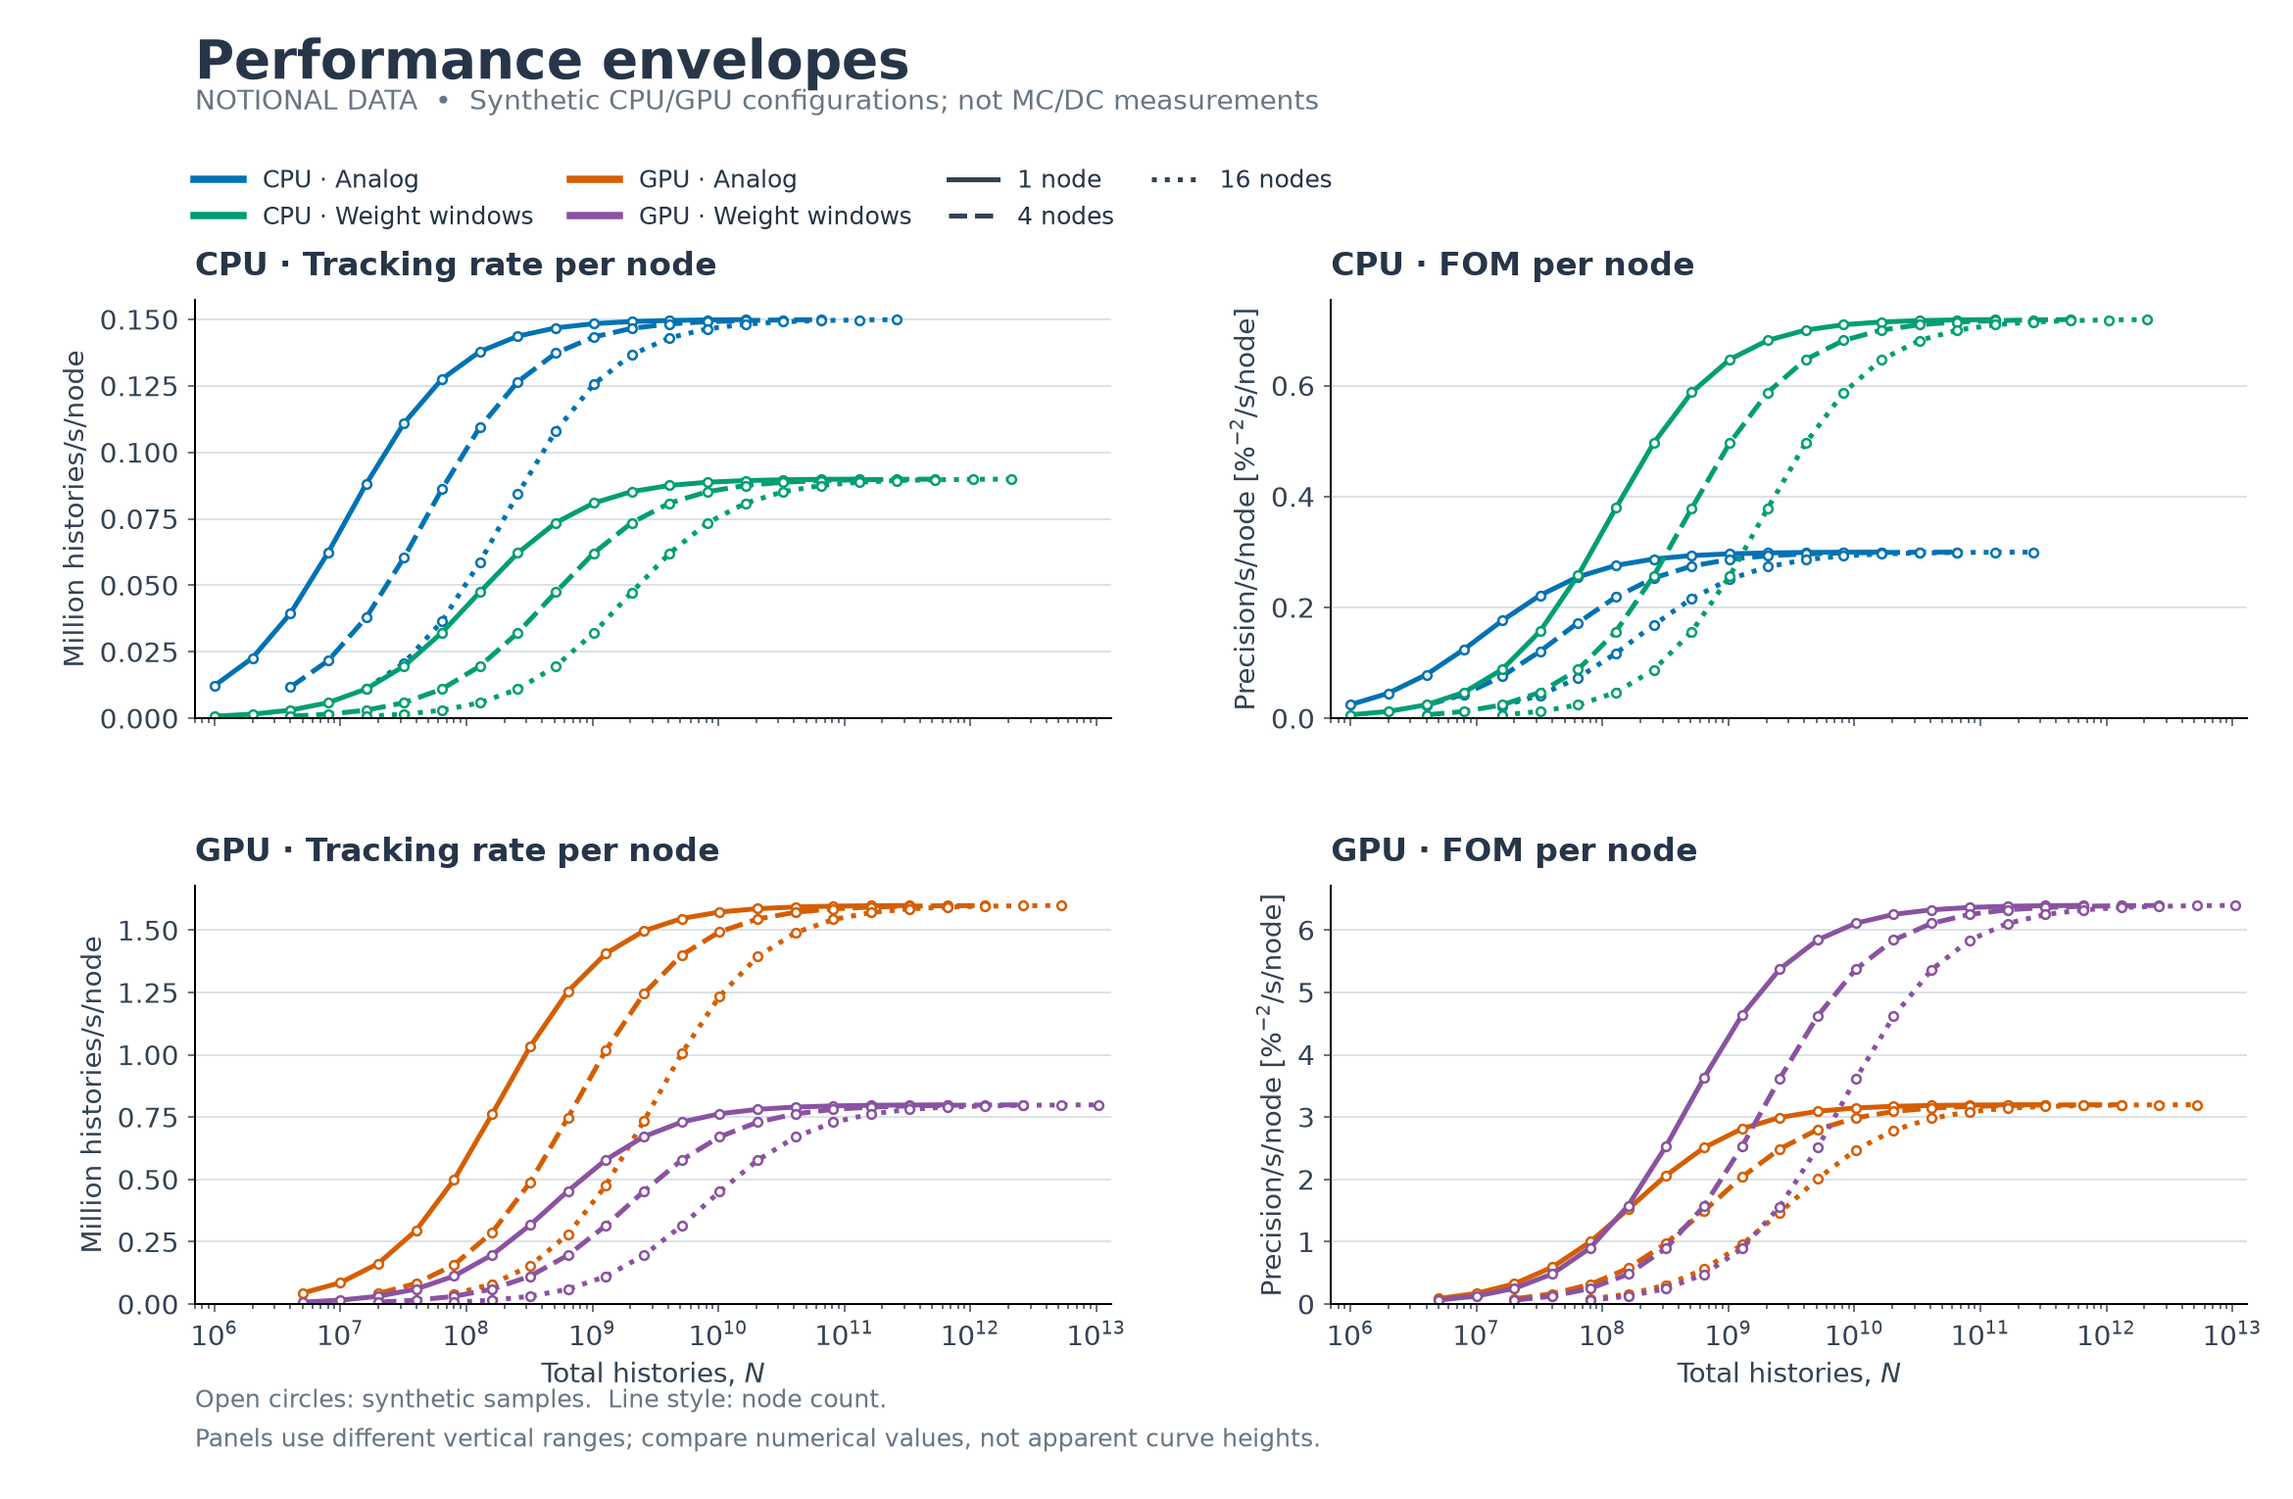
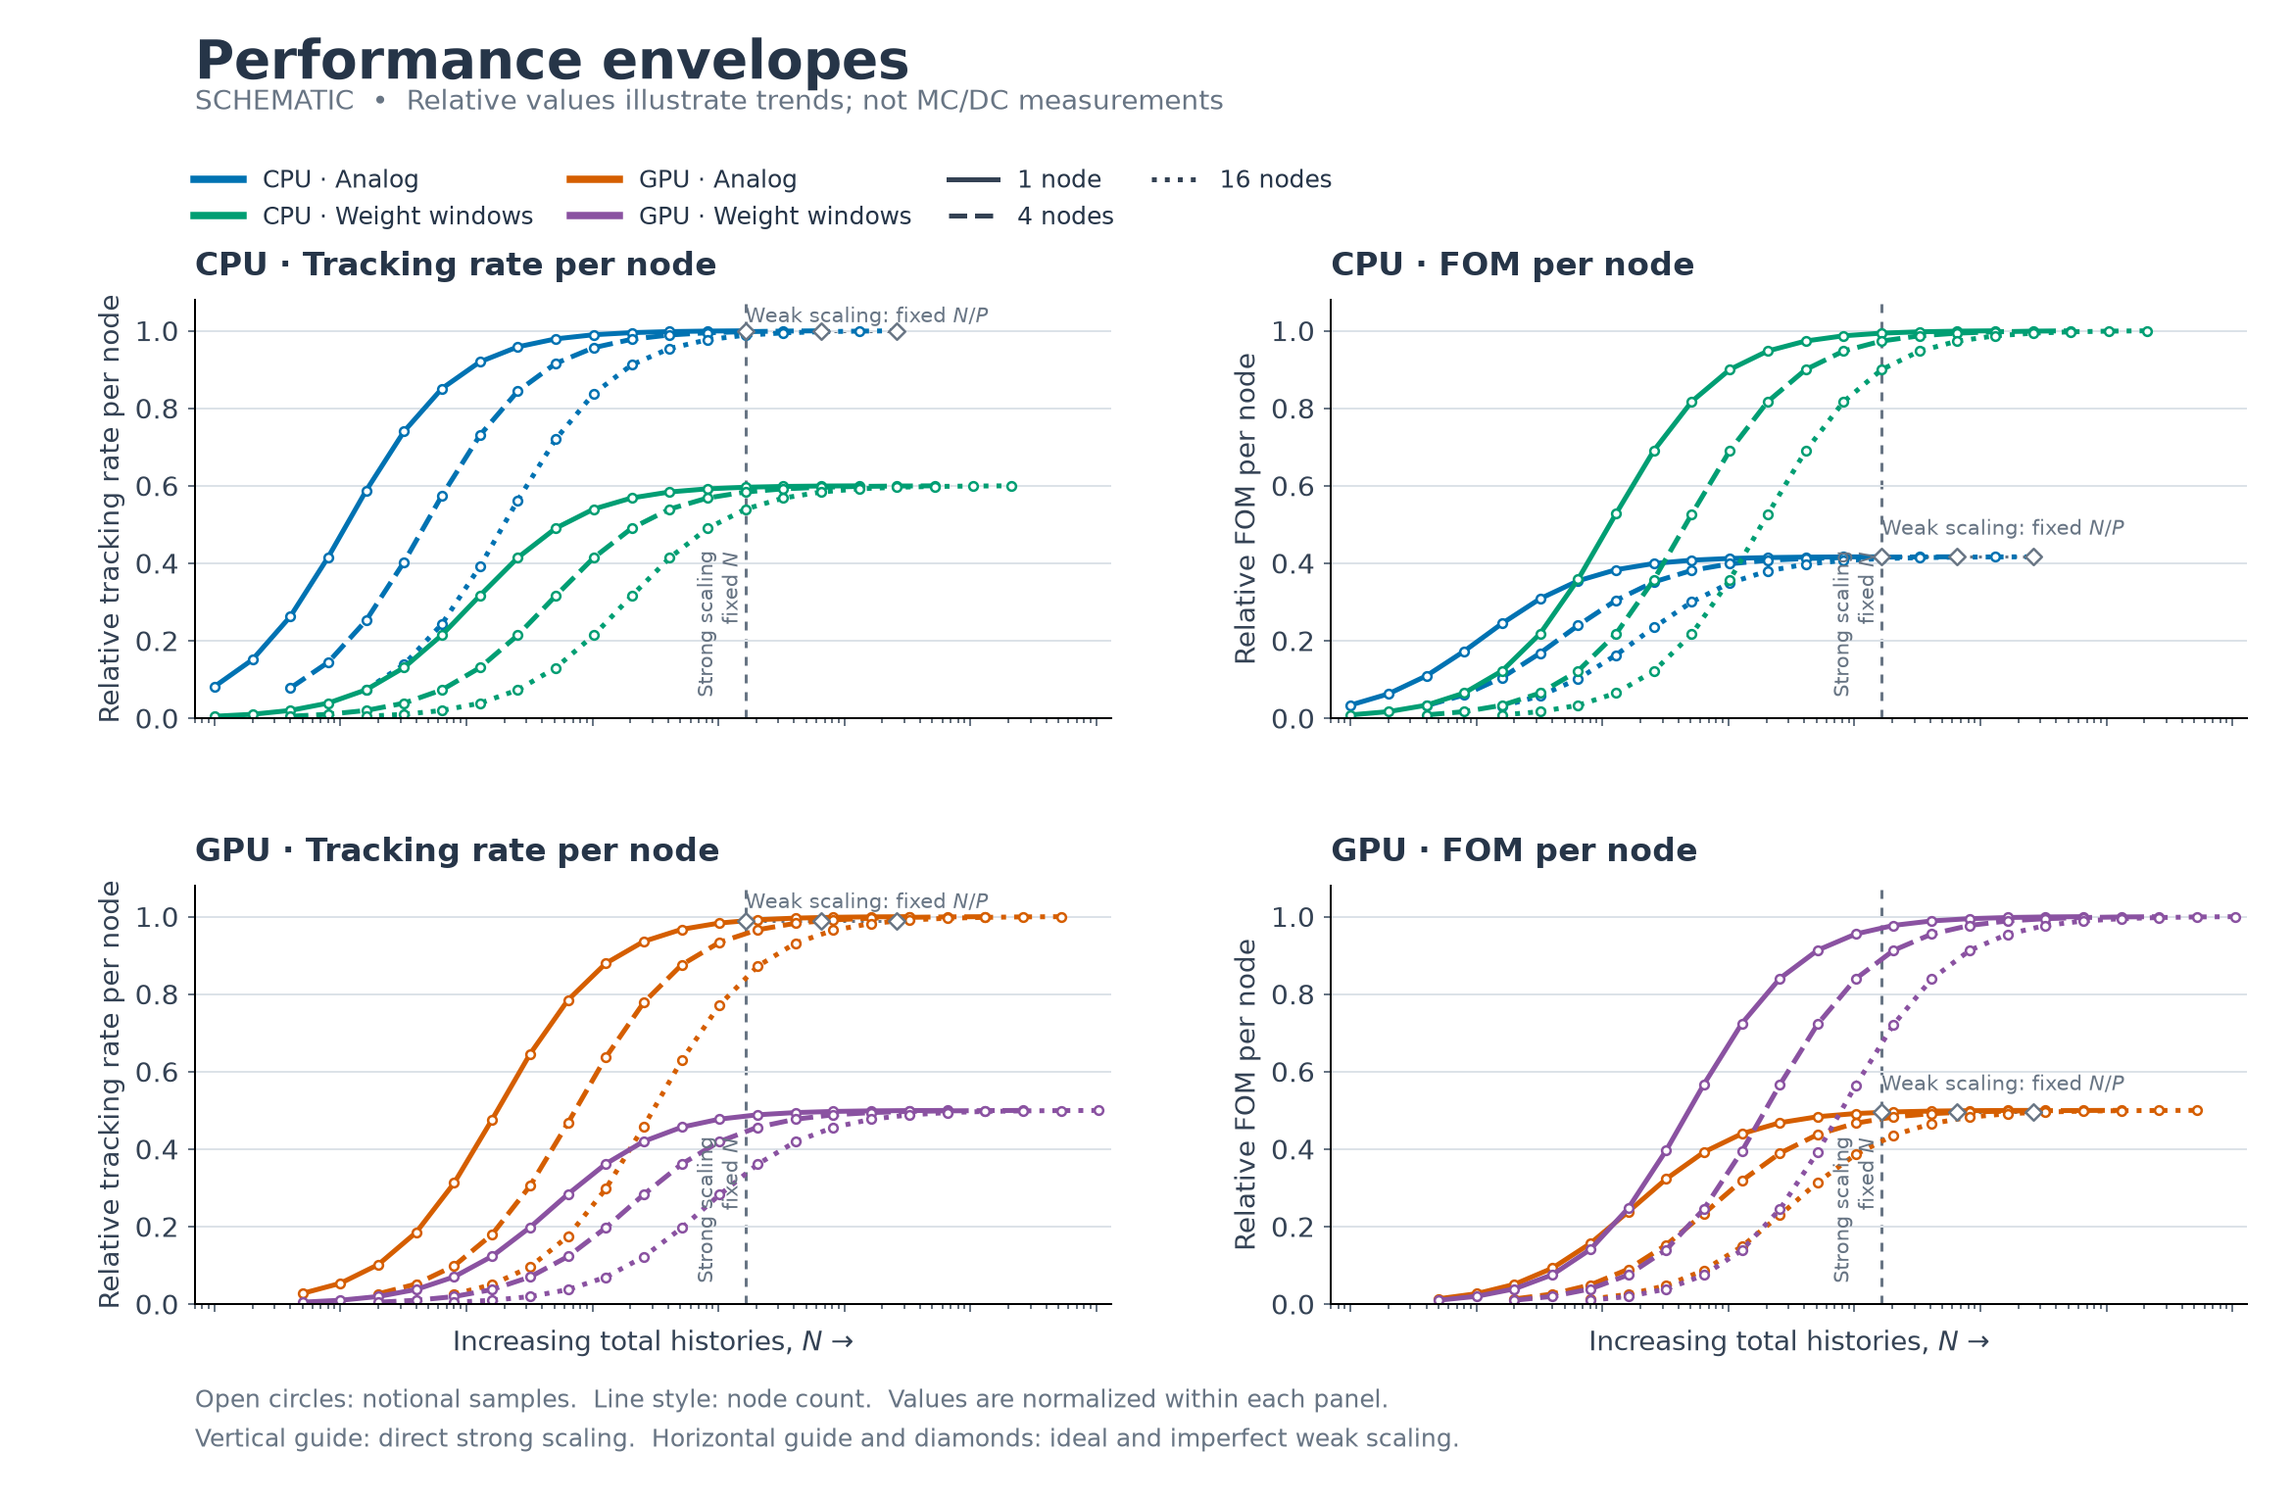
add notional performance plot

diff --git a/performance/design/generate_notional_plots.py b/performance/design/generate_notional_plots.py
@@ -1,4 +1,4 @@
-"""Generate synthetic performance illustrations without running transport cases."""
+"""Generate schematic performance illustrations without running transport cases."""
 
 from pathlib import Path
 
@@ -9,6 +9,7 @@ import matplotlib.pyplot as plt
 from matplotlib.colors import to_rgb
 from matplotlib.lines import Line2D
 from matplotlib.patches import Patch
+from matplotlib.ticker import NullFormatter
 import numpy as np
 
 NODES = (1, 4, 16)
@@ -95,7 +96,7 @@ def style_axis(axis):
 
 
 def save_curves(destination):
-    """Show the full notional tracking-rate and FOM curves by platform."""
+    """Illustrate performance envelopes and the two scaling comparisons."""
     series_by_configuration = {
         (platform, method, nodes): synthetic_series(platform, method, nodes)
         for platform in PLATFORMS
@@ -123,17 +124,23 @@ def save_curves(destination):
     figure.text(
         0.085,
         0.927,
-        "NOTIONAL DATA  •  Synthetic CPU/GPU configurations; not MC/DC measurements",
+        "SCHEMATIC  •  Relative values illustrate trends; not MC/DC measurements",
         fontsize=11,
         color="#687584",
     )
+    strong_scaling_histories = common_maximum_per_node()
+    weak_scaling_histories_per_node = common_maximum_per_node()
     for row, platform in enumerate(PLATFORMS):
         for column, metric in enumerate(("tracking_rate", "fom")):
             axis = axes[row, column]
+            scale = max(
+                np.max(series_by_configuration[platform, method, nodes][metric])
+                for method in METHODS
+                for nodes in NODES
+            )
             for method in METHODS:
                 for nodes in NODES:
                     series = series_by_configuration[platform, method, nodes]
-                    scale = 1e6 if metric == "tracking_rate" else 1.0
                     axis.plot(
                         series["histories"],
                         series[metric] / scale,
@@ -144,9 +151,69 @@ def save_curves(destination):
                         markersize=3.5,
                         markerfacecolor="white",
                     )
+            # A vertical slice holds total histories fixed: direct strong scaling.
+            axis.axvline(
+                strong_scaling_histories,
+                color="#687584",
+                linestyle=(0, (3, 3)),
+                linewidth=1.2,
+                zorder=0.5,
+            )
+            axis.text(
+                strong_scaling_histories,
+                0.05,
+                "Strong scaling\nfixed $N$",
+                transform=axis.get_xaxis_transform(),
+                rotation=90,
+                va="bottom",
+                ha="right",
+                fontsize=8.5,
+                color="#687584",
+            )
+
+            # Ideal weak scaling stays horizontal at fixed histories per node. The
+            # diamonds show the modest intentional departure from that guide.
+            weak_histories = np.array(NODES) * weak_scaling_histories_per_node
+            weak_values = np.array(
+                [
+                    sample_at(
+                        series_by_configuration[platform, "Analog", nodes],
+                        histories,
+                        nodes,
+                    )[metric]
+                    / scale
+                    for nodes, histories in zip(NODES, weak_histories)
+                ]
+            )
+            axis.hlines(
+                weak_values[0],
+                weak_histories[0],
+                weak_histories[-1],
+                color="#687584",
+                linestyle=(0, (1, 2)),
+                linewidth=1.2,
+                zorder=0.5,
+            )
+            axis.scatter(
+                weak_histories,
+                weak_values,
+                marker="D",
+                s=22,
+                facecolor="white",
+                edgecolor="#687584",
+                linewidth=1.0,
+                zorder=4,
+            )
+            axis.text(
+                weak_histories[0],
+                min(1.02, weak_values[0] + 0.055),
+                "Weak scaling: fixed $N/P$",
+                fontsize=8.5,
+                color="#687584",
+            )
             axis.set_xscale("log")
             axis.set_xlim(*history_limits)
-            axis.set_ylim(bottom=0)
+            axis.set_ylim(0, 1.08)
             axis.set_title(
                 f"{platform} · {'Tracking rate' if column == 0 else 'FOM'} per node",
                 loc="left",
@@ -154,12 +221,14 @@ def save_curves(destination):
                 pad=10,
             )
             axis.set_ylabel(
-                "Million histories/s/node"
+                "Relative tracking rate per node"
                 if column == 0
-                else r"Precision/s/node [$\%^{-2}$/s/node]"
+                else "Relative FOM per node"
             )
             if row == 1:
-                axis.set_xlabel(r"Total histories, $N$")
+                axis.set_xlabel(r"Increasing total histories, $N$ →")
+            axis.xaxis.set_major_formatter(NullFormatter())
+            axis.xaxis.set_minor_formatter(NullFormatter())
             style_axis(axis)
     method_handles = [
         Line2D([], [], color=COLORS[p, m], linewidth=3, label=f"{p} · {m}")
@@ -189,8 +258,8 @@ def save_curves(destination):
     figure.text(
         0.085,
         0.035,
-        "Open circles: synthetic samples.  Line style: node count.\n"
-        "Panels use different vertical ranges; compare numerical values, not apparent curve heights.",
+        "Open circles: notional samples.  Line style: node count.  Values are normalized within each panel.\n"
+        "Vertical guide: direct strong scaling.  Horizontal guide and diamonds: ideal and imperfect weak scaling.",
         fontsize=10,
         color="#687584",
         linespacing=1.6,
@@ -210,7 +279,7 @@ def common_maximum_per_node():
 
 
 def summary_points(platform, method):
-    """Select matched-workload anchors and wings without extrapolation."""
+    """Construct schematic scaling-summary anchors independently of the envelope."""
     nodes = max(NODES)
     maximum_per_node = common_maximum_per_node()
     maximum_histories = maximum_per_node * nodes
@@ -221,7 +290,7 @@ def summary_points(platform, method):
         (nodes, maximum_histories / divisor, "workload")
         for divisor in WORKLOAD_DIVISORS
     )
-    return [
+    points = [
         {
             "nodes": nodes,
             "histories": histories,
@@ -231,15 +300,24 @@ def summary_points(platform, method):
         }
         for nodes, histories, role in selections
     ]
+    # The summary is a separate notional drawing. Give its fixed-work-per-node wing
+    # a visible but modest node-count loss without changing the common asymptotes in
+    # the performance-envelope illustration.
+    for point in points:
+        efficiency = 1.0 - 0.015 * np.log2(point["nodes"])
+        point["tracking_rate"] *= efficiency
+        point["fom"] *= efficiency
+    return points
 
 
 def save_summary(destination):
     """Show achieved performance between weak-scaling and workload-sensitivity wings."""
     title = "Performance level + scaling evidence"
-    maximum_per_node = common_maximum_per_node()
-    workload_label = f"Main bar M: {max(NODES)} nodes × {maximum_per_node / 1e9:.3f} billion histories/node, shared by all groups"
+    workload_label = (
+        "Main bar M: largest illustrated allocation at a common workload per node"
+    )
     selection_label = "← Fewer nodes, fixed histories/node     |     M     |     Fixed nodes, fewer histories/node →"
-    histories_label = "Bar order: 1 node / 4 nodes / M (16 nodes) / a / b / c / d;   a–d: h_max ÷ 4 / 16 / 64 / 256"
+    histories_label = "Bar order: fewer nodes / M / a / b / c / d;   a–d: progressively less work per node"
     figure, axes = plt.subplots(1, 2, figsize=(13, 6.5))
     figure.subplots_adjust(left=0.085, right=0.98, bottom=0.28, top=0.70, wspace=0.25)
     figure.suptitle(
@@ -253,7 +331,7 @@ def save_summary(destination):
     figure.text(
         0.085,
         0.91,
-        f"NOTIONAL DATA  •  {workload_label}",
+        f"SCHEMATIC  •  {workload_label}",
         fontsize=11,
         color="#687584",
         va="top",
@@ -269,6 +347,11 @@ def save_summary(destination):
     )
     combinations = [(p, m) for p in PLATFORMS for m in METHODS]
     for axis, metric in zip(axes, ("tracking_rate", "fom")):
+        scale = max(
+            point[metric]
+            for platform, method in combinations
+            for point in summary_points(platform, method)
+        )
         group_labels = []
         for group, (platform, method) in enumerate(combinations):
             points = summary_points(platform, method)
@@ -279,7 +362,7 @@ def save_summary(destination):
             label = f"{platform}\n{method}"
             group_labels.append(label)
             for index, values in enumerate(points):
-                height = values[metric] / (1e6 if metric == "tracking_rate" else 1)
+                height = values[metric] / scale
                 color = np.array(to_rgb(COLORS[platform, method]))
                 color = color + (1.0 - color) * 0.13 * abs(index - main_index)
                 axis.bar(
@@ -313,11 +396,11 @@ def save_summary(destination):
                 )
         axis.set_xticks(range(len(combinations)), group_labels)
         axis.tick_params(axis="x", labelsize=9.5)
-        axis.set_ylim(0, axis.get_ylim()[1] * 1.16)
+        axis.set_ylim(0, 1.16)
         axis.set_ylabel(
-            "Million histories/s/node"
+            "Relative tracking rate per node"
             if metric == "tracking_rate"
-            else r"Precision/s/node [$\%^{-2}$/s/node]"
+            else "Relative FOM per node"
         )
         axis.set_title(
             "Tracking rate per node" if metric == "tracking_rate" else "FOM per node",
@@ -331,7 +414,7 @@ def save_summary(destination):
             Patch(
                 facecolor="#d2d9e0",
                 edgecolor="#344254",
-                label="Exact synthetic sampling point",
+                label="Illustrated sampling point",
             ),
         ]
         + [
@@ -339,7 +422,7 @@ def save_summary(destination):
                 facecolor="#d2d9e0",
                 edgecolor="#344254",
                 hatch="///",
-                label="Interpolated synthetic point",
+                label="Illustrated interpolation",
             )
         ],
         loc="lower left",
@@ -351,8 +434,8 @@ def save_summary(destination):
     figure.text(
         0.085,
         0.035,
-        "Left + M: direct weak-scaling comparison.  M + right: indirect strong-scaling evidence from workload sensitivity.\n"
-        "All groups share the same workload targets.  Hatched bars interpolate runtime and precision; no extrapolation.",
+        "Left → M: weak-scaling loss.  M → right: workload loss and indirect strong-scaling evidence.\n"
+        "A larger drop indicates poorer scaling behavior.  Hatched bars illustrate interpolation.",
         fontsize=10,
         color="#687584",
         linespacing=1.6,
@@ -379,7 +462,7 @@ def main():
     destination.mkdir(exist_ok=True)
     save_curves(destination)
     save_summary(destination)
-    print(f"Wrote two synthetic illustrations to {destination}")
+    print(f"Wrote two schematic illustrations to {destination}")
 
 
 if __name__ == "__main__":

diff --git a/README.md b/README.md
@@ -175,8 +175,22 @@ For parallel runs on $P$ nodes, tracking rate and FOM are reported per node as $
 | [Serial](performance/serial/README.md) | Single-process Python and Numba studies. |
 | [Parallel](performance/parallel/README.md) | Full-node Numba strong- and weak-scaling studies. |
 
+#### Notional performance illustrations
+
+The following schematic plots illustrate the intended presentation of the parallel-performance metrics; their relative heights and trends are intentional, but the values are not simulation data or predictions for any platform or transport method.
+
+![Notional tracking-rate and FOM performance envelopes for synthetic CPU and GPU configurations.](performance/design/figures/performance_curves.png)
+
+![Notional performance-level and scaling-evidence summary at common histories-per-node workloads.](performance/design/figures/scaling_summary.png)
+
+The complete performance envelopes show how tracking rate and FOM per node vary with total histories, exposing startup overhead, workload saturation, and differences among node counts.
+For each platform-method combination, the node-count curves converge to a common asymptotic level.
+A vertical slice through the node-count curves at fixed total histories gives a direct strong-scaling comparison; ideal per-node performance aligns the intersections, while greater downward separation as the node count grows indicates reduced strong-scaling efficiency.
+For weak scaling, compare points at fixed histories per node; ideal per-node performance places those points on a horizontal line, while a downward departure as the node count grows indicates reduced weak-scaling efficiency.
+
 Parallel results pair a detailed **Performance envelope** with a **Performance level + scaling evidence** summary at common histories-per-node workloads.
 The summary compares weak scaling to the left of its main bar and workload sensitivity, as indirect strong-scaling evidence, to its right.
+A substantial drop from the left wing toward the main bar indicates poor weak-scaling efficiency; a substantial drop from the main bar toward the right indicates sensitivity to decreasing work per node and warns of poor strong-scaling efficiency.
 Interpolation is marked and restricted to measured ranges; the envelope indicates whether the selected level is near saturation.
 
 ## Documentation
